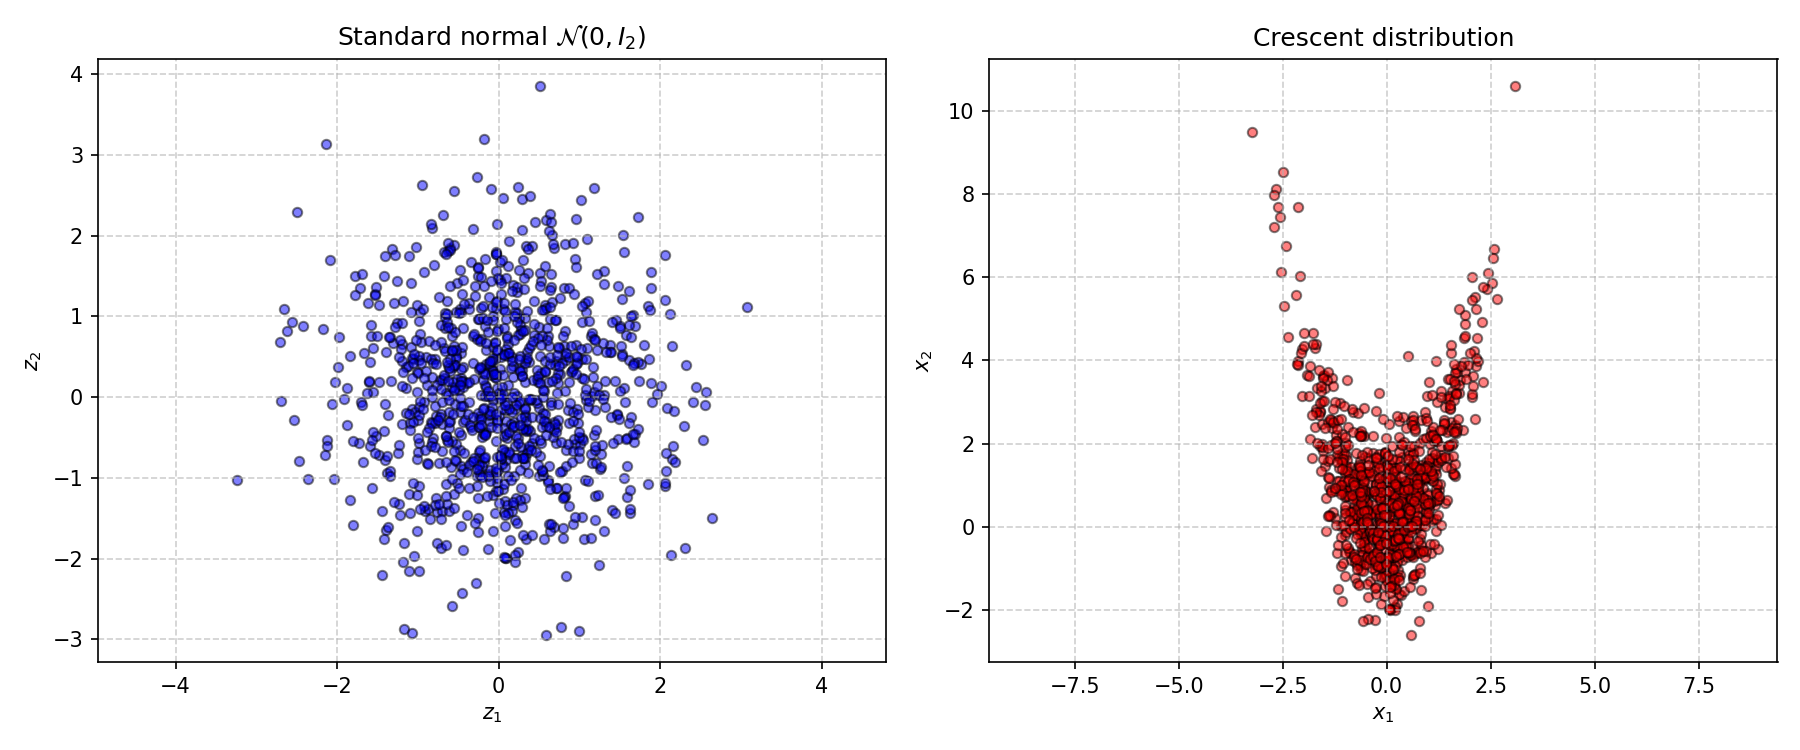
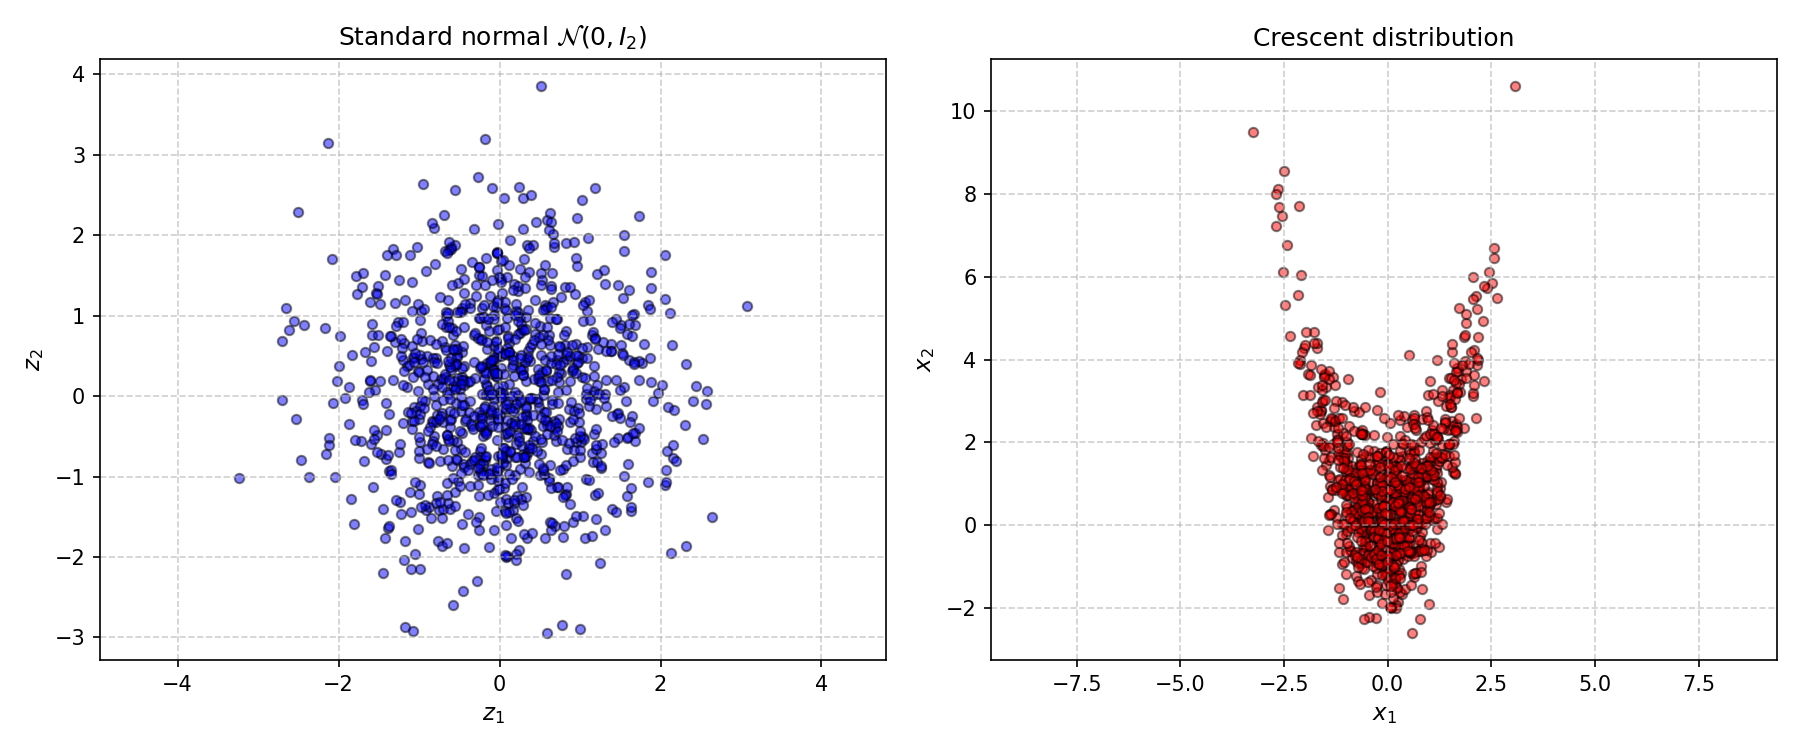
remove figure titles

diff --git a/utils/plotter.py b/utils/plotter.py
@@ -1,9 +1,9 @@
 """Plotting utilities for the Dykstra projection project.
 
-Provides a central ``ProjectPlotter`` class whose methods produce the
-standard figures used across benchmarks and experiments.  New plot types
-should be added as methods on this class so that styling remains
-consistent throughout the project.
+Provides dedicated plotter classes for disjoint plotting domains:
+
+* ``DykstraPlotter`` for Dykstra/PGD convergence diagnostics.
+* ``DistributionPlotter`` for sample-distribution visualisations.
 """
 
 from __future__ import annotations
@@ -18,8 +18,35 @@ import numpy as np
 
 from .projection_result import ProjectionResult
 
+SUPTITLE_FONT_SIZE = 14
+TITLE_FONT_SIZE = 12
+AXIS_LABEL_FONT_SIZE = 11
+TICK_LABEL_FONT_SIZE = 10
+LEGEND_FONT_SIZE = 10
 
-class ProjectPlotter:
+
+class _BasePlotter:
+    """Shared plotting base with output handling and common styling."""
+
+    def __init__(self, output_dir: str, dpi: int = 150) -> None:
+        self.output_dir = output_dir
+        self.dpi = dpi
+        os.makedirs(self.output_dir, exist_ok=True)
+
+    @staticmethod
+    def _style_axis(
+        ax: Axes,
+        title: str,
+        xlabel: str,
+        ylabel: str,
+    ) -> None:
+        ax.set_title(title, fontsize=TITLE_FONT_SIZE)
+        ax.set_xlabel(xlabel, fontsize=AXIS_LABEL_FONT_SIZE)
+        ax.set_ylabel(ylabel, fontsize=AXIS_LABEL_FONT_SIZE)
+        ax.tick_params(axis="both", labelsize=TICK_LABEL_FONT_SIZE)
+
+
+class DykstraPlotter(_BasePlotter):
     """Reusable plotter for Dykstra projection benchmarks and experiments.
 
     Parameters
@@ -31,11 +58,6 @@ class ProjectPlotter:
         Resolution for saved figures (default 150).
     """
 
-    def __init__(self, output_dir: str, dpi: int = 150) -> None:
-        self.output_dir = output_dir
-        self.dpi = dpi
-        os.makedirs(self.output_dir, exist_ok=True)
-
     # Public API
 
     def plot_convergence_comparison(
@@ -43,7 +65,6 @@ class ProjectPlotter:
         results: Sequence[ProjectionResult],
         labels: Sequence[str],
         max_iter: int,
-        suptitle: str | None = None,
         filename: str | None = None,
         show: bool = True,
     ) -> Figure:
@@ -63,8 +84,6 @@ class ProjectPlotter:
         max_iter : int
             Number of Dykstra cycles that were run (used to build the
             iteration axis).
-        suptitle : str, optional
-            Overall figure title.
         filename : str, optional
             If given the figure is saved to ``output_dir / filename``.
         show : bool, optional
@@ -87,10 +106,7 @@ class ProjectPlotter:
         for ax, label, result in zip(axes, labels, results):
             self._draw_convergence_panel(ax, result, iters, label)
 
-        if suptitle is not None:
-            fig.suptitle(suptitle, fontsize=13)
-
-        plt.tight_layout()
+        fig.tight_layout()
 
         if filename is not None:
             fig.savefig(
@@ -106,7 +122,6 @@ class ProjectPlotter:
         self,
         vanilla_results: Sequence[ProjectionResult],
         fast_forward_results: Sequence[ProjectionResult],
-        suptitle: str = "Dykstra Squared Error by Outer Iteration",
         filename_prefix: str | None = None,
         show: bool = True,
     ) -> Figure:
@@ -149,8 +164,7 @@ class ProjectPlotter:
                 f"Outer {outer_idx + 1} — Fast-Forward Dykstra",
             )
 
-        fig.suptitle(suptitle, fontsize=13)
-        fig.tight_layout(rect=(0, 0, 1, 0.97))
+        fig.tight_layout()
 
         if filename_prefix is not None:
             fig.savefig(
@@ -162,7 +176,7 @@ class ProjectPlotter:
             plt.show()
 
         return fig
-    
+
     # Internal helpers
 
     @staticmethod
@@ -240,8 +254,76 @@ class ProjectPlotter:
                 color=colour, markersize=3, label=label_arg,
             )
 
-        ax.set_title(title)
-        ax.set_xlabel("Iteration")
-        ax.set_ylabel("Squared error")
-        ax.legend()
+        self._style_axis(
+            ax=ax,
+            title=title,
+            xlabel="Iteration",
+            ylabel="Squared error",
+        )
+        ax.legend(fontsize=LEGEND_FONT_SIZE)
         ax.grid(True, which="both", alpha=0.3)
+
+
+class DistributionPlotter(_BasePlotter):
+    """Plotter for sample-distribution visualisations.
+    """
+
+    def plot_distributions(
+        self,
+        zeta: np.ndarray,
+        z: np.ndarray,
+        seed: int,
+        m: int,
+        filename: str | None = None,
+        show: bool = True,
+    ) -> Figure:
+        """Plot and save standard-normal and crescent sample distributions."""
+        fig, (ax1, ax2) = plt.subplots(1, 2, figsize=(12, 5))
+
+        self._draw_distribution_panel(
+            ax=ax1,
+            samples=zeta,
+            title=r"Standard normal $\mathcal{N}(0, I_2)$",
+            xlabel="$z_1$",
+            ylabel="$z_2$",
+            color="blue",
+        )
+        self._draw_distribution_panel(
+            ax=ax2,
+            samples=z,
+            title="Crescent distribution",
+            xlabel="$x_1$",
+            ylabel="$x_2$",
+            color="red",
+        )
+
+        fig.tight_layout()
+
+        out_name = filename or f"synthetic_distribution_SEED={seed}_M={m}.png"
+        fig.savefig(os.path.join(self.output_dir, out_name), dpi=self.dpi)
+
+        if show:
+            plt.show()
+
+        return fig
+
+    def _draw_distribution_panel(
+        self,
+        ax: Axes,
+        samples: np.ndarray,
+        title: str,
+        xlabel: str,
+        ylabel: str,
+        color: str,
+    ) -> None:
+        ax.scatter(
+            samples[:, 0],
+            samples[:, 1],
+            alpha=0.5,
+            color=color,
+            edgecolor="k",
+            s=20,
+        )
+        self._style_axis(ax=ax, title=title, xlabel=xlabel, ylabel=ylabel)
+        ax.grid(True, linestyle="--", alpha=0.6)
+        ax.axis("equal")

diff --git a/tests/test_end_to_end_kr1d.py b/tests/test_end_to_end_kr1d.py
@@ -17,7 +17,7 @@ sys.path.insert(0, os.path.abspath(os.path.join(os.path.dirname(__file__), "..")
 from utils import generate_crescent_data_2d
 from utils import HermiteBasis, KRMap1D
 from utils import ProjectedGradientDescent
-from utils import ProjectPlotter
+from utils import DykstraPlotter
 from utils import (
     DykstraProjectionSolver,
     DykstraStallDetectionSolver,
@@ -37,7 +37,7 @@ def test_dykstra_fast_forward_advantage() -> None:
     """
     # Step 1 – Data
     num_particles: int = 500
-    seed: int = 44
+    seed: int = 42
     _, z = generate_crescent_data_2d(num_particles, seed=seed)
     z1: np.ndarray = z[:, 0]
 
@@ -47,12 +47,12 @@ def test_dykstra_fast_forward_advantage() -> None:
     kr_model = KRMap1D(data=z1, basis=basis, degree=degree)
 
     # Step 3 – Constraints
-    A, b = kr_model.get_polyhedral_constraints(epsilon=5e-1)
+    A, b = kr_model.get_polyhedral_constraints(epsilon=1e-4)
 
     # Step 4 – Initial guess (identity map: S(z) = z)
-    w_init: np.ndarray = np.array([3.5, -4.5, 3.0, -3.0])
+    w_init: np.ndarray = np.array([0., 1., 0., 0.])
 
-    learning_rate: float = 0.5
+    learning_rate: float = 0.01
     max_outer_iter: int = 3
     dykstra_kwargs: dict = {"max_iter": 1000, "track_error": True}
 
@@ -107,13 +107,10 @@ def test_dykstra_fast_forward_advantage() -> None:
     plot_output_dir = os.path.join(
         os.path.dirname(__file__), "..", "results", "dykstra_benchmarks"
     )
-    plotter = ProjectPlotter(output_dir=plot_output_dir)
+    plotter = DykstraPlotter(output_dir=plot_output_dir)
     plotter.plot_outer_iteration_solver_comparison(
         vanilla_results=history_vanilla["projection_results"],
         fast_forward_results=history_fast["projection_results"],
-        suptitle=(
-            f"KR1D PGD Inner Dykstra Error "
-        ),
         filename_prefix=(
             f"kr1d_outer_iter_comparison_SEED={seed}_M={num_particles}"
         ),

diff --git a/tests/data_generation.py b/tests/data_generation.py
@@ -1,40 +1,22 @@
 import sys
 import os
 
-import numpy as np
-import matplotlib.pyplot as plt
-
 sys.path.insert(0, os.path.abspath(os.path.join(os.path.dirname(__file__), "..")))
 
+from utils import DistributionPlotter
 from utils import generate_crescent_data_2d
-
-
-def plot_distributions(zeta: np.ndarray, z: np.ndarray):
-    fig, (ax1, ax2) = plt.subplots(1, 2, figsize=(12, 5))
-
-    ax1.scatter(zeta[:, 0], zeta[:, 1], alpha=0.5, color='blue', edgecolor='k', s=20)
-    ax1.set_title(r"Standard normal $\mathcal{N}(0, I_2)$")
-    ax1.set_xlabel("$z_1$")
-    ax1.set_ylabel("$z_2$")
-    ax1.grid(True, linestyle='--', alpha=0.6)
-    ax1.axis('equal')
-
-    ax2.scatter(z[:, 0], z[:, 1], alpha=0.5, color='red', edgecolor='k', s=20)
-    ax2.set_title("Crescent distribution")
-    ax2.set_xlabel("$x_1$")
-    ax2.set_ylabel("$x_2$")
-    ax2.grid(True, linestyle='--', alpha=0.6)
-    ax2.axis('equal')
-
-    out_dir = os.path.join(os.path.dirname(__file__), "..", "results", "data_generation")
-    os.makedirs(out_dir, exist_ok=True)
-    plt.tight_layout()
-    plt.savefig(os.path.join(out_dir, f"synthetic_distribution_SEED={SEED}_M={M}.png"), dpi=150)
-    plt.show()
 
 if __name__ == "__main__":
     M = 1000
     SEED = 42
 
     normal_particles, crescent_particles = generate_crescent_data_2d(num_particles=M, seed=SEED)
-    plot_distributions(normal_particles, crescent_particles)
+    out_dir = os.path.join(os.path.dirname(__file__), "..", "results", "data_generation")
+    plotter = DistributionPlotter(output_dir=out_dir)
+    plotter.plot_distributions(
+        zeta=normal_particles,
+        z=crescent_particles,
+        seed=SEED,
+        m=M,
+        show=True,
+    )

diff --git a/tests/benchmark_dykstra_vs_fastforward.py b/tests/benchmark_dykstra_vs_fastforward.py
@@ -9,7 +9,7 @@ import numpy as np
 sys.path.insert(0, os.path.abspath(os.path.join(os.path.dirname(__file__), "..")))
 
 from utils import DykstraProjectionSolver, DykstraStallDetectionSolver
-from utils import ProjectPlotter
+from utils import DykstraPlotter
 
 def run_benchmark():
 
@@ -51,13 +51,12 @@ def run_benchmark():
     print()
 
     out_dir = os.path.join(os.path.dirname(__file__), "..", "results", "dykstra_benchmarks")
-    plotter = ProjectPlotter(output_dir=out_dir)
+    plotter = DykstraPlotter(output_dir=out_dir)
 
     plotter.plot_convergence_comparison(
         results=[result_std, result_ff],
         labels=["Standard Dykstra", "Stall-Detection (FF)"],
         max_iter=MAX_ITER,
-        suptitle=f"Convergence Comparison  (dim={DIM}, halfspaces={NUM_HALFSPACES})",
         filename=f"benchmark_convergence_SEED={SEED}_DIM={DIM}_HS={NUM_HALFSPACES}.png",
         show=True,
     )

diff --git a/utils/__init__.py b/utils/__init__.py
@@ -9,4 +9,12 @@ from .data_generator import generate_crescent_data_2d
 from .hermite import hermite_polynomial
 from .optimal_transport import HermiteBasis, KRMap1D
 from .pgd_solver import ProjectedGradientDescent
-from .plotter import ProjectPlotter
+from .plotter import (
+    AXIS_LABEL_FONT_SIZE,
+    LEGEND_FONT_SIZE,
+    SUPTITLE_FONT_SIZE,
+    TICK_LABEL_FONT_SIZE,
+    TITLE_FONT_SIZE,
+    DistributionPlotter,
+    DykstraPlotter,
+)
